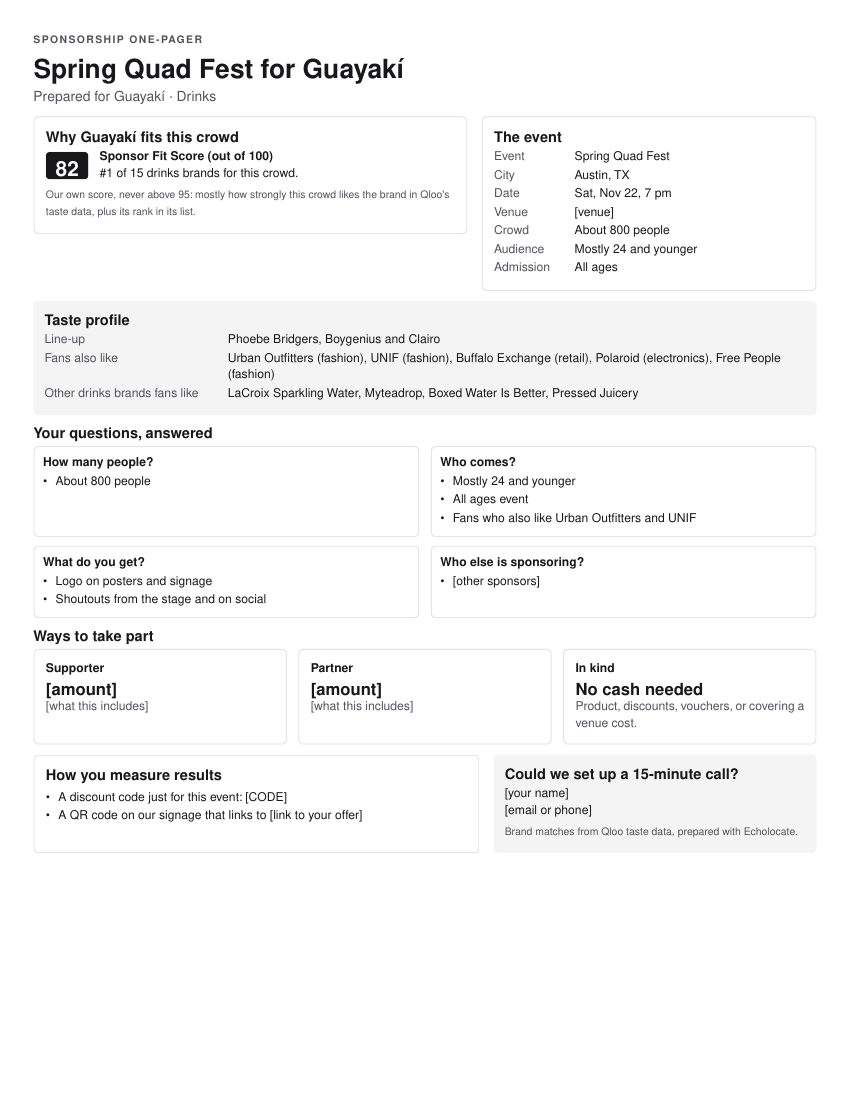
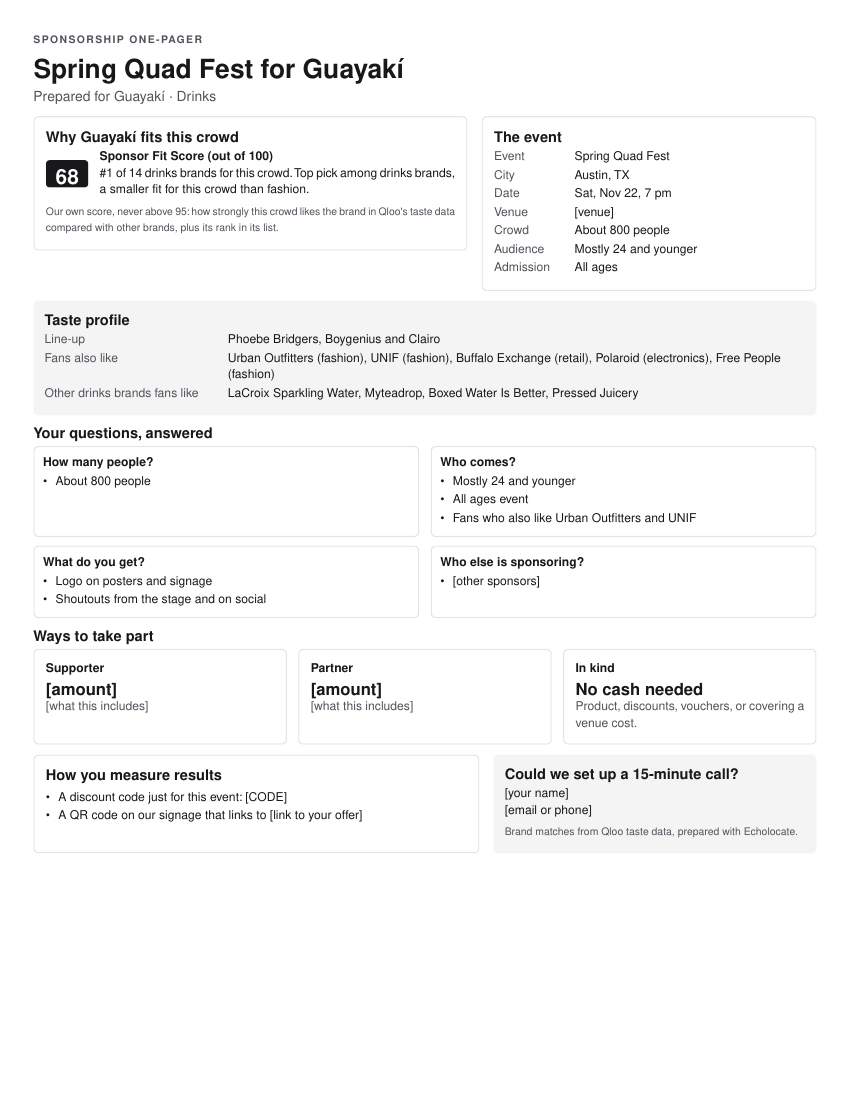
Number brands after filtering; drop "of the top 50"
Ranks are counted after the alcohol, NGO and big-institution filters, in
the top list and each category list. Reasons now read "#1 of 46 brands
Qloo matched to this crowd." instead of "#13 of the top 50 ...". The same
rank feeds the card, the pitch email, the one-pager and the score's rank
part. README screenshots refreshed.

Changed region(s): [[0.0612, 0.1236, 0.52, 0.2164]]

diff --git a/src/lib/qloo.ts b/src/lib/qloo.ts
@@ -573,7 +573,7 @@ function reasonSentence(
   const things = noun ? `${categoryLabel.toLowerCase()} ${noun}` : categoryLabel.toLowerCase();
   const rankPart =
     source === "general"
-      ? `#${rank} of the top ${listSize} brands for this crowd, across all categories.`
+      ? `#${rank} of ${listSize} brands Qloo matched to this crowd.`
       : `#${rank} of ${listSize} ${things} for this crowd.`;
 
   const strong = reasons.filter((reason) => reason.share > 0);
@@ -756,25 +756,30 @@ export async function getSponsorBrands(
     }
   }
 
-  general.forEach((entity, index) => {
-    const tagIds = brandTagIds(entity);
-    if (notASponsor(tagIds)) return;
-    if (!includeAlcohol && tagIds.some((id) => id.startsWith(ALCOHOL_TAG_PREFIX))) return;
-    const category = categoryFromTags(tagIds);
+  // Filter first, then number: "#3 of 38" counts only brands we show, so the
+  // rank in the reason, the pitch, the one-pager and the score all agree.
+  const shown = (entities: Json[]) =>
+    entities.filter((entity) => {
+      const tagIds = brandTagIds(entity);
+      if (notASponsor(tagIds)) return false;
+      return includeAlcohol || !tagIds.some((id) => id.startsWith(ALCOHOL_TAG_PREFIX));
+    });
+
+  const generalShown = shown(general);
+  generalShown.forEach((entity, index) => {
+    const category = categoryFromTags(brandTagIds(entity));
     keep(
-      toBrand(entity, category, index + 1, general.length, "general", signalNames),
+      toBrand(entity, category, index + 1, generalShown.length, "general", signalNames),
       category.label,
     );
   });
 
   perCategory.forEach((entities, categoryIndex) => {
     const category = categories[categoryIndex];
-    entities.forEach((entity, index) => {
-      const tagIds = brandTagIds(entity);
-      if (notASponsor(tagIds)) return;
-      if (!includeAlcohol && tagIds.some((id) => id.startsWith(ALCOHOL_TAG_PREFIX))) return;
+    const categoryShown = shown(entities);
+    categoryShown.forEach((entity, index) => {
       keep(
-        toBrand(entity, category, index + 1, entities.length, "category", signalNames),
+        toBrand(entity, category, index + 1, categoryShown.length, "category", signalNames),
         category.label,
       );
     });
